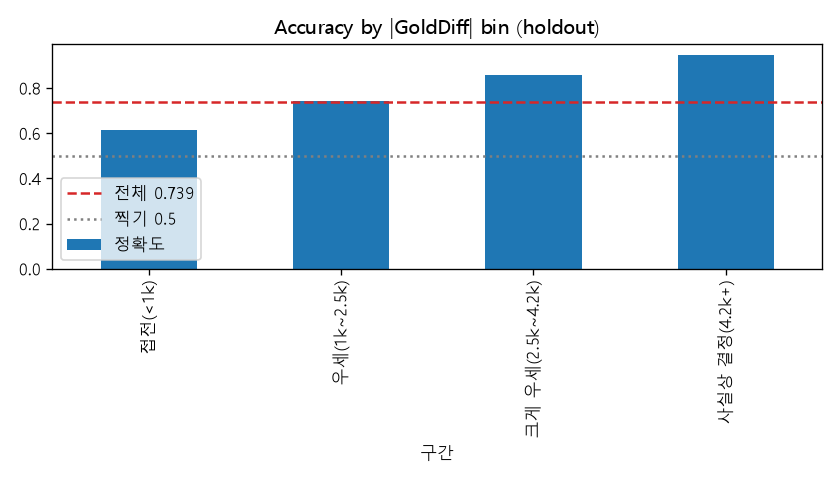
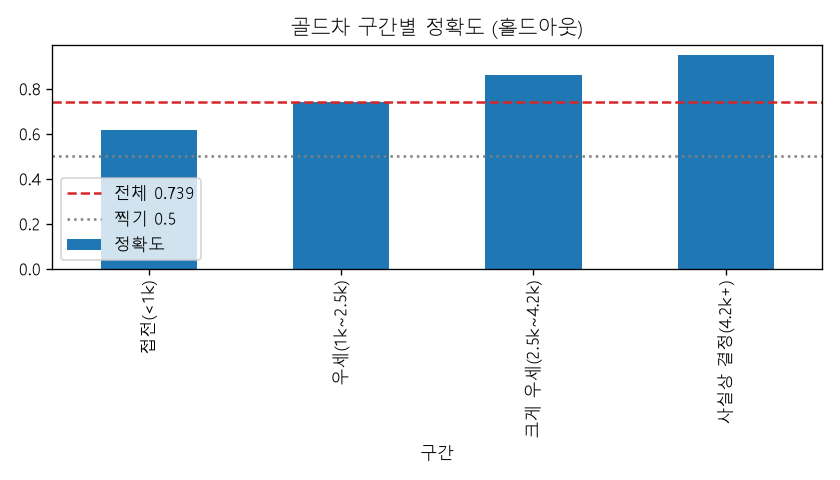
버그 3건 수정 · finalize_model 의 학습 코드 중복 제거
버그 1 — lolwin/model.py 가 피처 type 을 "int" 로 하드코딩해,
AvgLevelDiff(실수)가 int 로 적혔다. 쓰는 쪽이 잘못된 입력 검증을 하게 된다.
dtype 으로 판정하도록 수정.

버그 2 — 그걸 검사가 못 잡았다. test_metrics_match_schema 가 성능만 봐서
피처 규격이 어긋나도 통과했다. features·정체성 항목까지 대조하도록 넓히고
(test_schema_matches_shipped), 일부러 int 로 되돌려 잡히는 것을 확인했다.

버그 3 — finalize_model 을 고치면서 runs.csv 의 표준편차가 0.0 으로
기록되게 만들었다(폴드별 점수 대신 요약값을 넘겨서). train() 이 원본
cross_validate 결과를 raw 로 함께 돌려주도록 하고 그대로 기록. 0.0153 확인.

중복 제거 — finalize_model.py 가 학습을 직접 하던 것을 lolwin.model.train()
호출로 바꿨다. 이제 이 스크립트는 해석(승리요인·오류분석)과 그림만 만든다.
factcheck 도 피처 정본을 lolwin/features.py 에서 읽고, SQL 뷰 대조 규칙을 추가했다.

검증: 재실행 결과 모델 계수·스케일러 동일, win_factor_ranking·day4_error_analysis
CSV 바이트 동일, 골든 50건 예측 변화 0건. schema 는 provenance 가 새로 붙고
trained_at 만 갱신됐다. verify 4종 + 파리티 + API 스모크 전부 통과.

Changed region(s): [[0.0619, 0.0312, 0.9595, 0.125], [0.031, 0.25, 0.0619, 0.2812], [0.031, 0.1562, 0.0619, 0.1875]]

diff --git a/src/finalize_model.py b/src/finalize_model.py
@@ -1,121 +1,62 @@
-# 마무리 단계 — 최종 학습 · 홀드아웃 평가 · 해석 · 오류 분석 · 아티팩트 저장/검증
+# 마무리 단계 — 최종 학습(lolwin) + 해석 · 오류 분석 · 그림
 #
 # 실행: 프로젝트 폴더에서  python src/finalize_model.py
 #
-# 데이터 소스 규칙:
-#   1순위 — DB 뷰 v_diff13_* (환경변수 DB_PASSWORD 필요, 피처 정의의 정본)
-#   폴백  — 로컬 CSV + 아래 파이썬 계산식 (spec 002 "CSV 폴백")
-#   ⚠ 폴백 계산식은 SQL 뷰와 같아야 한다. DB가 열릴 때 parity 검사를 돌릴 것.
+# 학습 자체는 lolwin.model.train() 이 한다. 이 스크립트는 그 위에서
+# "발표에 쓸 해석과 그림" 만 만든다. 예전에는 학습 절차와 그림 그리기가 한 함수에
+# 섞여 있어 모델만 다시 만들 수가 없었다.
 #
-# 시점 인자 구조(FR-6): TIME_POINT 만 바꾸면 15분 데이터 확보 시 그대로 재실행.
+#   학습·저장·이력  → lolwin/model.py   (재현성은 tests/test_training_reproducible.py 가 검사)
+#   피처 정의       → lolwin/features.py (정본)
+#   여기            → 승리요인 순위, 구간별 오류 분석, 그림
+#
+# ⚠ 이걸 실행하면 artifacts/ 가 새로 쓰인다(trained_at 갱신).
+#    그러면 tests/golden_predictions.json 도 다시 만들어야 한다:
+#      python tests/make_golden.py
 import os
 import sys
 
 sys.path.insert(0, os.path.dirname(os.path.abspath(__file__)))
 from paths import cd_root
 
-cd_root()   # 어디서 실행하든 프로젝트 폴더 기준으로 맞춘다 (경로 오류 방지)
+cd_root()   # 어디서 실행하든 프로젝트 폴더 기준으로 맞춘다 (그림·CSV 저장 경로)
 
-import json
 import time
 
-import joblib
+import matplotlib
 import numpy as np
 import pandas as pd
-import matplotlib
 
 matplotlib.use("Agg")
 import matplotlib.pyplot as plt
 
 plt.rcParams["font.family"] = "Malgun Gothic"   # 한글 라벨 (Windows)
 plt.rcParams["axes.unicode_minus"] = False
-import sklearn
+
 from sklearn.inspection import permutation_importance
-from sklearn.linear_model import LogisticRegression
-from sklearn.metrics import (accuracy_score, brier_score_loss, confusion_matrix,
-                             f1_score, roc_auc_score)
-from sklearn.model_selection import StratifiedKFold, cross_validate
-from sklearn.pipeline import Pipeline
-from sklearn.preprocessing import StandardScaler
 
-SEED = 42
-TIME_POINT = 10  # 분 — 15분 데이터 확보 시 이 값과 데이터 소스만 바꾼다
-DIFF13 = ["FirstBlood", "KillsDiff", "GoldDiff", "ExpDiff", "WardsPlacedDiff",
-          "WardsDestroyedDiff", "AssistsDiff", "DragonsDiff", "HeraldsDiff",
-          "TowersDestroyedDiff", "AvgLevelDiff", "TotalMinionsKilledDiff",
-          "TotalJungleMinionsKilledDiff"]
+from lolwin.data import load as load_data
+from lolwin.features import DIFF13
+from lolwin.model import SEED, make_pipeline, train
 
-
-def build_diff13_from_csv(df: pd.DataFrame) -> pd.DataFrame:
-    """CSV 폴백 — SQL 뷰 v_diff13_* 와 같은 계산식 (정본은 db/create_ml_views.sql)"""
-    out = pd.DataFrame(index=df.index)
-    out["FirstBlood"] = df["blueFirstBlood"]
-    out["KillsDiff"] = df["blueKills"] - df["redKills"]
-    out["GoldDiff"] = df["blueGoldDiff"]
-    out["ExpDiff"] = df["blueExperienceDiff"]
-    for p in ["WardsPlaced", "WardsDestroyed", "Assists", "Dragons", "Heralds",
-              "TowersDestroyed", "AvgLevel", "TotalMinionsKilled",
-              "TotalJungleMinionsKilled"]:
-        out[f"{p}Diff"] = df[f"blue{p}"] - df[f"red{p}"]
-    return out[DIFF13]
-
-
-def load_data():
-    """(X_tr, y_tr, X_te, y_te, source) — DB 우선, 없으면 CSV 폴백"""
-    if os.environ.get("DB_PASSWORD"):
-        from load_from_db import load
-        X_tr, y_tr = load("diff13", "train")
-        X_te, y_te = load("diff13", "test")
-        return X_tr[DIFF13], y_tr, X_te[DIFF13], y_te, "db:v_diff13"
-    # ★ gameId 순으로 정렬한다 — DB 뷰(load_from_db 가 ORDER BY gameId 로 읽음)와
-    #   행 순서를 맞추기 위해서다. StratifiedKFold(shuffle=True) 는 입력 행 순서에 따라
-    #   폴드를 다르게 나누므로, 순서가 다르면 같은 데이터인데 CV 점수가 미세하게 달라진다
-    #   (실측: 정렬 안 하면 0.7367, 정렬하면 0.7369). 재현성을 위해 순서를 고정한다.
-    df = pd.read_csv("data/high_diamond_ranked_10min.csv").sort_values("gameId")
-    X, y = build_diff13_from_csv(df), df["blueWins"]
-    # day1 이 저장한 순서 그대로 뽑는다(.loc). 이 순서가 곧 분할 당시의 순서이며,
-    # CV 폴드 구성이 day1·팀 spec 과 같아진다.
-    tr = pd.read_csv("data/splits/train_idx.csv")["idx"].values
-    te = pd.read_csv("data/splits/test_idx.csv")["idx"].values
-    assert not (set(tr) & set(te)), "train/test 인덱스가 겹칩니다"
-    return X.loc[tr], y.loc[tr], X.loc[te], y.loc[te], "csv:fallback"
+# 기존 코드가 이 이름들을 import 하던 흔적 — 라이브러리로 옮겼다
+TIME_POINT = 10
 
 
 def main():
-    os.makedirs("artifacts", exist_ok=True)
-    os.makedirs("reports", exist_ok=True)
-    X_tr, y_tr, X_te, y_te, source = load_data()
-    print(f"[데이터] {source} — train {X_tr.shape} / test {X_te.shape} (봉인 해제: 최종 평가 1회)")
-
-    pipe = Pipeline([("scaler", StandardScaler()),
-                     ("model", LogisticRegression(max_iter=1000, random_state=SEED))])
-
-    # ---- 1. 교차검증 (안정성 기준 확인) ----
-    cv = StratifiedKFold(n_splits=5, shuffle=True, random_state=SEED)
     t0 = time.time()
-    res = cross_validate(pipe, X_tr, y_tr, cv=cv, scoring=["accuracy", "f1"],
-                         return_train_score=True, n_jobs=1)
-    cv_acc, cv_std = res["test_accuracy"].mean(), res["test_accuracy"].std()
-    gap = res["train_accuracy"].mean() - cv_acc
-    print(f"[교차검증] acc {cv_acc:.4f} ± {cv_std:.4f} | 학습-검증 격차 {gap:+.4f} "
-          f"| 기준: std<0.02 {'통과' if cv_std < 0.02 else '위반'} · 격차<0.03 "
-          f"{'통과' if gap < 0.03 else '위반'}")
 
-    # ---- 2. 최종 학습 + 홀드아웃 평가 (딱 한 번) ----
-    pipe.fit(X_tr, y_tr)
-    proba = pipe.predict_proba(X_te)[:, 1]
-    pred = (proba >= 0.5).astype(int)
-    acc = accuracy_score(y_te, pred)
-    f1 = f1_score(y_te, pred)
-    auc = roc_auc_score(y_te, proba)
-    brier = brier_score_loss(y_te, proba)
-    cm = confusion_matrix(y_te, pred)
-    baseline = max(y_te.mean(), 1 - y_te.mean())
-    print(f"[홀드아웃] acc {acc:.4f} (기준선 {baseline:.4f}, +{acc-baseline:.4f}) "
-          f"| F1 {f1:.4f} | AUC {auc:.4f} | Brier {brier:.4f}")
-    print(f"[혼동행렬] TN {cm[0,0]} FP {cm[0,1]} / FN {cm[1,0]} TP {cm[1,1]}")
+    # ---- 1. 학습·평가·저장은 라이브러리에 맡긴다 ----
+    result = train(verbose=True)
+    metrics = result["metrics"]
+    acc = metrics["accuracy"]
 
-    # ---- 3. 해석 — 표준화 계수 × permutation importance 교차 확인 ----
+    # ---- 2. 해석용으로 같은 조건에서 다시 맞춘다 (시험지 예측이 필요하므로) ----
+    X_tr, y_tr, X_te, y_te, _ = load_data()
+    pipe = make_pipeline(SEED).fit(X_tr, y_tr)
+    pred = (pipe.predict_proba(X_te)[:, 1] >= 0.5).astype(int)
+
+    # ---- 3. 승리요인 — 표준화 계수 × permutation importance 교차 확인 ----
     coefs = pd.Series(pipe.named_steps["model"].coef_[0], index=DIFF13)
     perm = permutation_importance(pipe, X_te, y_te, n_repeats=10,
                                   random_state=SEED, scoring="accuracy", n_jobs=1)
@@ -126,14 +67,14 @@ def main():
         "perm_importance": imp.round(4),
         "perm_rank": imp.rank(ascending=False).astype(int),
     }).sort_values("perm_rank")
-    top6_overlap = len(set(rank.nsmallest(6, "coef_rank").index)
-                       & set(rank.nsmallest(6, "perm_rank").index))
-    print(f"\n[승리요인] 두 방법 상위 6개 중 {top6_overlap}개 일치 (기준 5개 이상: "
-          f"{'충족' if top6_overlap >= 5 else '미달'})")
+    top6 = len(set(rank.nsmallest(6, "coef_rank").index)
+               & set(rank.nsmallest(6, "perm_rank").index))
+    print(f"\n[승리요인] 두 방법 상위 6개 중 {top6}개 일치 "
+          f"(기준 5개 이상: {'충족' if top6 >= 5 else '미달'})")
     print(rank.to_string())
     rank.to_csv("reports/tables/win_factor_ranking.csv", encoding="utf-8-sig")
 
-    # ---- 4. 오류 분석 (FR-4) — 골드차 구간별 정확도 ----
+    # ---- 4. 오류 분석 — 골드차 구간별 정확도 ("접전일수록 틀린다" 검증) ----
     err = pd.DataFrame({"abs_gold": X_te["GoldDiff"].abs().values,
                         "correct": (pred == y_te.values).astype(int)})
     bins = [0, 1000, 2500, 4200, np.inf]
@@ -142,7 +83,7 @@ def main():
     ea = err.groupby("구간", observed=True).agg(경기수=("correct", "size"),
                                                 정확도=("correct", "mean")).round(4)
     ea["비중_%"] = (ea["경기수"] / ea["경기수"].sum() * 100).round(1)
-    print("\n[오류 분석] 골드차 구간별 홀드아웃 정확도 — '접전일수록 틀린다' 검증:")
+    print("\n[오류 분석] 골드차 구간별 홀드아웃 정확도:")
     print(ea.to_string())
     ea.to_csv("reports/tables/day4_error_analysis.csv", encoding="utf-8-sig")
 
@@ -150,45 +91,19 @@ def main():
     ea["정확도"].plot.bar(ax=ax, color="tab:blue")
     ax.axhline(acc, color="tab:red", ls="--", label=f"전체 {acc:.3f}")
     ax.axhline(0.5, color="gray", ls=":", label="찍기 0.5")
-    ax.set_title("Accuracy by |GoldDiff| bin (holdout)")
+    ax.set_title("골드차 구간별 정확도 (홀드아웃)")
     ax.legend()
     fig.tight_layout()
     fig.savefig("reports/figures/day4_error_analysis.png", dpi=120)
 
-    # ---- 5. 아티팩트 — 저장 → 복원 → 일치 assert ----
-    joblib.dump(pipe, "artifacts/model.joblib")
-    restored = joblib.load("artifacts/model.joblib")
-    assert (restored.predict(X_te) == pred).all(), "복원 모델 예측 불일치!"
-    print("\n[아티팩트] artifacts/model.joblib 저장·복원·예측 일치 assert 통과")
-
-    schema = {
-        "model_name": "LoL 승패 예측·설명 서비스",
-        "version": "1.0",
-        "time_point_min": TIME_POINT,
-        "target": "blueWins (블루팀 승리 확률)",
-        "feature_set": "diff13 (블루-레드 차이, 양수=블루 우세)",
-        "trained_at": pd.Timestamp.now().strftime("%Y-%m-%d %H:%M"),
-        "data_source": source,
-        "sklearn_version": sklearn.__version__,
-        "seed": SEED,
-        "metrics_holdout": {"accuracy": round(acc, 4), "f1": round(f1, 4),
-                            "auc": round(auc, 4), "brier": round(brier, 4),
-                            "baseline_accuracy": round(float(baseline), 4)},
-        "features": {c: {
-            "type": "int" if pd.api.types.is_integer_dtype(X_tr[c]) else "float",
-            "train_min": float(X_tr[c].min()), "train_max": float(X_tr[c].max()),
-            "train_mean": round(float(X_tr[c].mean()), 3),
-        } for c in DIFF13},
-    }
-    with open("artifacts/schema.json", "w", encoding="utf-8") as f:
-        json.dump(schema, f, ensure_ascii=False, indent=2)
-    print("[아티팩트] artifacts/schema.json 저장 (13피처 허용 범위 = 학습셋 min/max)")
-
-    # ---- 6. 실험 기록 (열 순서는 runlog.py 한 곳에서만 정의) ----
-    sys.path.insert(0, os.path.dirname(os.path.abspath(__file__)))
+    # ---- 5. 실험 기록 (열 순서는 runlog.py 한 곳에서만 정의) ----
     from runlog import log_run
-    log_run(f"final_logreg_diff13_holdout(src={source})", res, time.time() - t0)
-    print("[기록] runs.csv 추가 — 마무리 단계 완료. 다음: predict.py 스모크 테스트")
+
+    log_run(f"final_logreg_diff13_holdout(src={result['schema']['data_source']})",
+            result["cv"]["raw"], time.time() - t0)
+    print("[기록] runs.csv 추가")
+    print("\n⚠ artifacts/ 가 새로 쓰였습니다 — 정답지도 다시 만드세요:")
+    print("   python tests/make_golden.py")
 
 
 if __name__ == "__main__":

diff --git a/tests/test_training_reproducible.py b/tests/test_training_reproducible.py
@@ -48,21 +48,40 @@ def test_retraining_reproduces_shipped_model():
                      "학습 경로나 데이터가 바뀌었습니다.")
 
 
-def test_metrics_match_schema():
-    """재학습 성능이 schema.json 에 적힌 값과 같아야 한다."""
+def test_schema_matches_shipped():
+    """재학습이 만든 schema 가 배포본과 같아야 한다 — 성능과 피처 규격 둘 다.
+
+    성능만 보면 피처 type·범위가 어긋나도 통과한다. 실제로 AvgLevelDiff 가
+    float 인데 int 로 적히는 버그를 이 검사가 없어서 놓쳤다.
+    """
     import json
 
     from lolwin.model import train
 
     with tempfile.TemporaryDirectory(prefix="lolwin_test_") as tmp:
-        r = train(out_dir=tmp, verbose=False)
+        got = train(out_dir=tmp, verbose=False)["schema"]
 
     with open(os.path.join(ROOT, "artifacts", "schema.json"), encoding="utf-8") as f:
-        shipped = json.load(f)["metrics_holdout"]
+        shipped = json.load(f)
 
-    bad = [f"{k}: {shipped[k]} → {r['metrics'][k]}"
-           for k in shipped if r["metrics"].get(k) != shipped[k]]
-    assert not bad, "성능이 달라졌습니다:\n  " + "\n  ".join(bad)
+    bad = []
+    for k, v in shipped["metrics_holdout"].items():
+        if got["metrics_holdout"].get(k) != v:
+            bad.append(f"성능 {k}: {v} → {got['metrics_holdout'].get(k)}")
+
+    for feat, spec in shipped["features"].items():
+        for field, want in spec.items():
+            have = got["features"].get(feat, {}).get(field)
+            if have != want:
+                bad.append(f"피처 {feat}.{field}: {want} → {have}")
+
+    # 재학습해도 바뀌면 안 되는 정체성 항목 (trained_at·provenance 는 당연히 바뀐다)
+    for k in ("model_name", "version", "time_point_min", "target",
+              "feature_set", "seed", "sklearn_version"):
+        if got.get(k) != shipped.get(k):
+            bad.append(f"{k}: {shipped.get(k)} → {got.get(k)}")
+
+    assert not bad, "배포본과 달라졌습니다:\n  " + "\n  ".join(bad)
 
 
 def main():
@@ -72,7 +91,7 @@ def main():
         return 0
 
     failed = 0
-    for t in (test_retraining_reproduces_shipped_model, test_metrics_match_schema):
+    for t in (test_retraining_reproduces_shipped_model, test_schema_matches_shipped):
         try:
             t()
             print(f"[통과] {t.__name__} — {t.__doc__.splitlines()[0]}")

diff --git a/lolwin/model.py b/lolwin/model.py
@@ -78,6 +78,8 @@ def cross_validate_stability(pipe, X_tr, y_tr, seed: int = SEED) -> dict:
         "cv_accuracy": round(acc, 4), "cv_std": round(std, 4),
         "train_minus_cv": round(gap, 4),
         "stable": bool(std < 0.02), "not_overfit": bool(gap < 0.03),
+        # 원본 폴드별 점수 — runs.csv 기록처럼 표준편차까지 필요한 곳에서 쓴다
+        "raw": res,
     }
 
 
@@ -88,6 +90,7 @@ def train(source: str | None = None, seed: int = SEED, out_dir: str | None = Non
     out_dir 을 주면 그쪽에 쓴다(검증용). 안 주면 artifacts/ 에 쓴다.
     """
     import joblib
+    import pandas as pd
     import sklearn
 
     from lolwin import data
@@ -129,13 +132,16 @@ def train(source: str | None = None, seed: int = SEED, out_dir: str | None = Non
         "time_point_min": 10,
         "target": "blueWins (블루팀 승리 확률)",
         "feature_set": "diff13 (블루-레드 차이, 양수=블루 우세)",
-        "trained_at": __import__("pandas").Timestamp.now().strftime("%Y-%m-%d %H:%M"),
+        "trained_at": pd.Timestamp.now().strftime("%Y-%m-%d %H:%M"),
         "data_source": dmeta["data_source"],
         "sklearn_version": sklearn.__version__,
         "seed": seed,
         "metrics_holdout": {k: v for k, v in metrics.items() if k != "confusion_matrix"},
+        # type 은 실제 dtype 으로 판정한다. 하드코딩하면 AvgLevelDiff(실수)가
+        # int 로 적혀 쓰는 쪽이 잘못된 입력 검증을 하게 된다.
         "features": {
-            f: {"type": "int", "train_min": float(X_tr[f].min()),
+            f: {"type": "int" if pd.api.types.is_integer_dtype(X_tr[f]) else "float",
+                "train_min": float(X_tr[f].min()),
                 "train_max": float(X_tr[f].max()),
                 "train_mean": round(float(X_tr[f].mean()), 3)}
             for f in DIFF13
@@ -146,7 +152,7 @@ def train(source: str | None = None, seed: int = SEED, out_dir: str | None = Non
             "split_hash": dmeta.get("split_hash"),
             "n_train": dmeta["n_train"], "n_test": dmeta["n_test"],
             "git_commit": _git_commit(),
-            "cv": stab,
+            "cv": {k: v for k, v in stab.items() if k != "raw"},
             "confusion_matrix": metrics["confusion_matrix"],
         },
     }

diff --git a/src/factcheck.py b/src/factcheck.py
@@ -10,6 +10,7 @@ import io
 import json
 import os
 import re
+import sys
 
 os.chdir(os.path.dirname(os.path.dirname(os.path.abspath(__file__))))
 issues = []
@@ -55,10 +56,16 @@ for p, s in docs.items():
 
 # 4) 피처 목록이 schema · 코드 · 노트북에서 일치하는가
 feats = list(schema["features"].keys())
+# 정본은 lolwin/features.py 다 (예전엔 학습 스크립트에서 읽었다)
 code = re.findall(r'"(\w+)"', re.search(
-    r"DIFF13 = \[(.*?)\]", read("src/finalize_model.py"), re.S).group(1))
+    r"DIFF13: list\[str\] = \[(.*?)\]", read("lolwin/features.py"), re.S).group(1))
 if feats != code:
-    issues.append(f"[피처 불일치] schema {len(feats)}개 ≠ finalize_model {len(code)}개")
+    issues.append(f"[피처 불일치] schema {len(feats)}개 ≠ lolwin/features {len(code)}개")
+# 파이썬 정의와 SQL 뷰가 어긋나면 DB 학습 시 값이 달라진다
+sys.path.insert(0, os.getcwd())
+from lolwin.features import sql_matches_file
+for bad_sql in sql_matches_file():
+    issues.append(f"[SQL 불일치] {bad_sql}")
 nb = read("notebooks/final_analysis.ipynb")
 missing_nb = [f for f in feats if f not in nb]
 if missing_nb:
